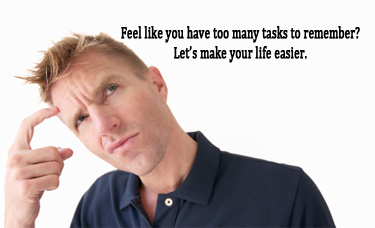
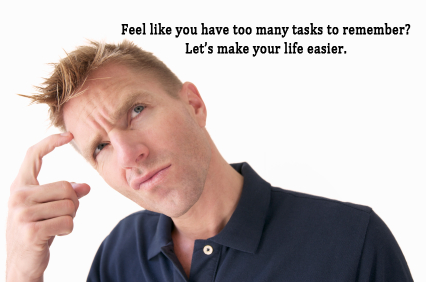
Buttons sized correctly and background has been selected

Changed region(s): [[0.0293, 0.0614, 0.9973, 1.0], [0.7627, 0.8904, 0.8213, 1.0], [0.616, 0.7368, 0.6453, 0.8289]]

diff --git a/index.html b/index.html
@@ -16,25 +16,27 @@
 <body>
 
 <header>
-	<div>
+	<div id="mainTitle">
     <h1>Remind Me Later</h1>
     
     	<!--Search bar-->
-    	<ul class="search">
-				<li><label for="searchit">Search:</label><input type="text" id="searching" /><button id="go">Go</button></li>
-		</ul>	
+<label for="searchit">Search:</label><input type="text" id="searching"/><button id="go">Go</button>
+	
 </header>
 	</div>
 	
-<img src="http://i24.photobucket.com/albums/c39/youngbutcute07/feature.png" alt="Feature"  />
+<img src="http://i24.photobucket.com/albums/c39/youngbutcute07/feature-1.png" alt="Feature" width= "300px" id="feature"/>
 
-<button><a href="additem.html">Add New Task</a></button><br />
-<button><a href= "#" id="displayData2">Display Data</a></button><br />
-<button><a href= "about.html">About</a></button><br />
-<button><a href= "help.html">Help</a></button><br />
-<button><a href= "contact.html">Contact</a></button>
+<div id="mainTitle">
+<a href="additem.html"><button id="mainButton">Add New Task</button></a><br />
+<a href= "#" id="displayData2"><button id="mainButton">Display Saved Tasks</button></a><br />
+<a href= "about.html"><button id="mainButton">About</button></a><br />
+<a href= "help.html"><button id="mainButton">Help</button></a><br />
+<a href= "contact.html"><button id="mainButton">Contact</button></a>
+</div>
+<script type="text/javascript" src="js/getIt.js"></script>
+<script type="text/javascript" src="js/json.js"></script>
 
-<script type="text/javascript" src="getIt.js"></script>
 
 </body>
 </html>

diff --git a/css/style.css b/css/style.css
@@ -1,16 +1,17 @@
 /*Stylesheet for additem.html and index.html*/
 
 body{
-background:#FFFFFF url("http://i24.photobucket.com/albums/c39/youngbutcute07/notepad_page-2.png") center;
-overflow:scroll;
+background:#000000 
 	}
 	
+#mainTitle{
+	background:#696969;
+	margin-right: 4px;
+	}
+		
 h1{
 	font-family:Tahoma, Geneva, sans-serif; serif;
 	text-align:center;
-	letter-spacing:-1px;
-	text-shadow: 5px 5px 5px #404040;
-	border-style:ridge;
 	border-color:#0000FF;
 	padding:5px;
 	color:#00008B;
@@ -107,10 +108,20 @@ img{
 	margin-top: 10px;
 		}
 
-button{
-border:2px solid;
-border-radius:25px;
+#mainButton{
+	width: 300px;
+	height: 30px;
 }
+
+#searching{
+	width: 195px;
+	margin-top: -15px;
+	}
+
+#feature{
+	margin-top: 0px;
+	margin-bottom: -5px;
+	}
 
 
 

diff --git a/additem.html b/additem.html
@@ -69,7 +69,13 @@
 <a href="additem.html" id="addAnother"><button id="addOne" style="display: none;">Add New Task</button></a><br />
 
 <footer>
-<a href= "index.html">Home</a><a href= "#" id="clear">Clear Stored Data</a> <a href= "#" id="displayData">Display Data</a>
+
+<button id="secButton"><a href= "#" id="clear">Clear Stored Data</a></button>
+<button id="secButton"><a href= "#" id="displayData">Display Data</a></button>
+<button id="secButton"><a href= "index.html">Home</a></button>
+<button id="secButton"><a href= "about.html">About</a></button>
+<button id="secButton"><a href= "help.html">Help</a></button>
+<button id="secButton"><a href= "contact.html">Contact</a></button>
 </footer>
 
 <script type="text/javascript" src="js/json.js"></script>

diff --git a/about.html b/about.html
@@ -28,5 +28,11 @@
 <p id="subTitle">Creator</p>
 <p>Devona Ward</p>
 
+
+<button id="lowButton"><a href= "index.html">Home</a></button>
+<button id="lowButton"><a href= "help.html">Help</a></button>
+<button id="lowButton"><a href= "contact.html">Contact</a></button>
+
+
 </body>
 </html>

diff --git a/help.html b/help.html
@@ -28,5 +28,9 @@
 <p>Tap "View Saved Tasks", and tap "Edit Task" to edit, or tap
 "Delete Task" to delete a task.</p>
 
+<button id="lowButton"><a href= "index.html">Home</a></button>
+<button id="lowButton"><a href= "contact.html">Contact</a></button>
+
+
 </body>
 </html>

diff --git a/contact.html b/contact.html
@@ -25,6 +25,8 @@ For any comments, or suggestions please contact me at:<p>
 <p>Email: dward1289@gmail.com<p>
     
 
+<button id="lowButton"><a href= "index.html">Home</a></button>
+<button id="lowButton"><a href= "help.html">Help</a></button>
 
 </body>
 </html>
